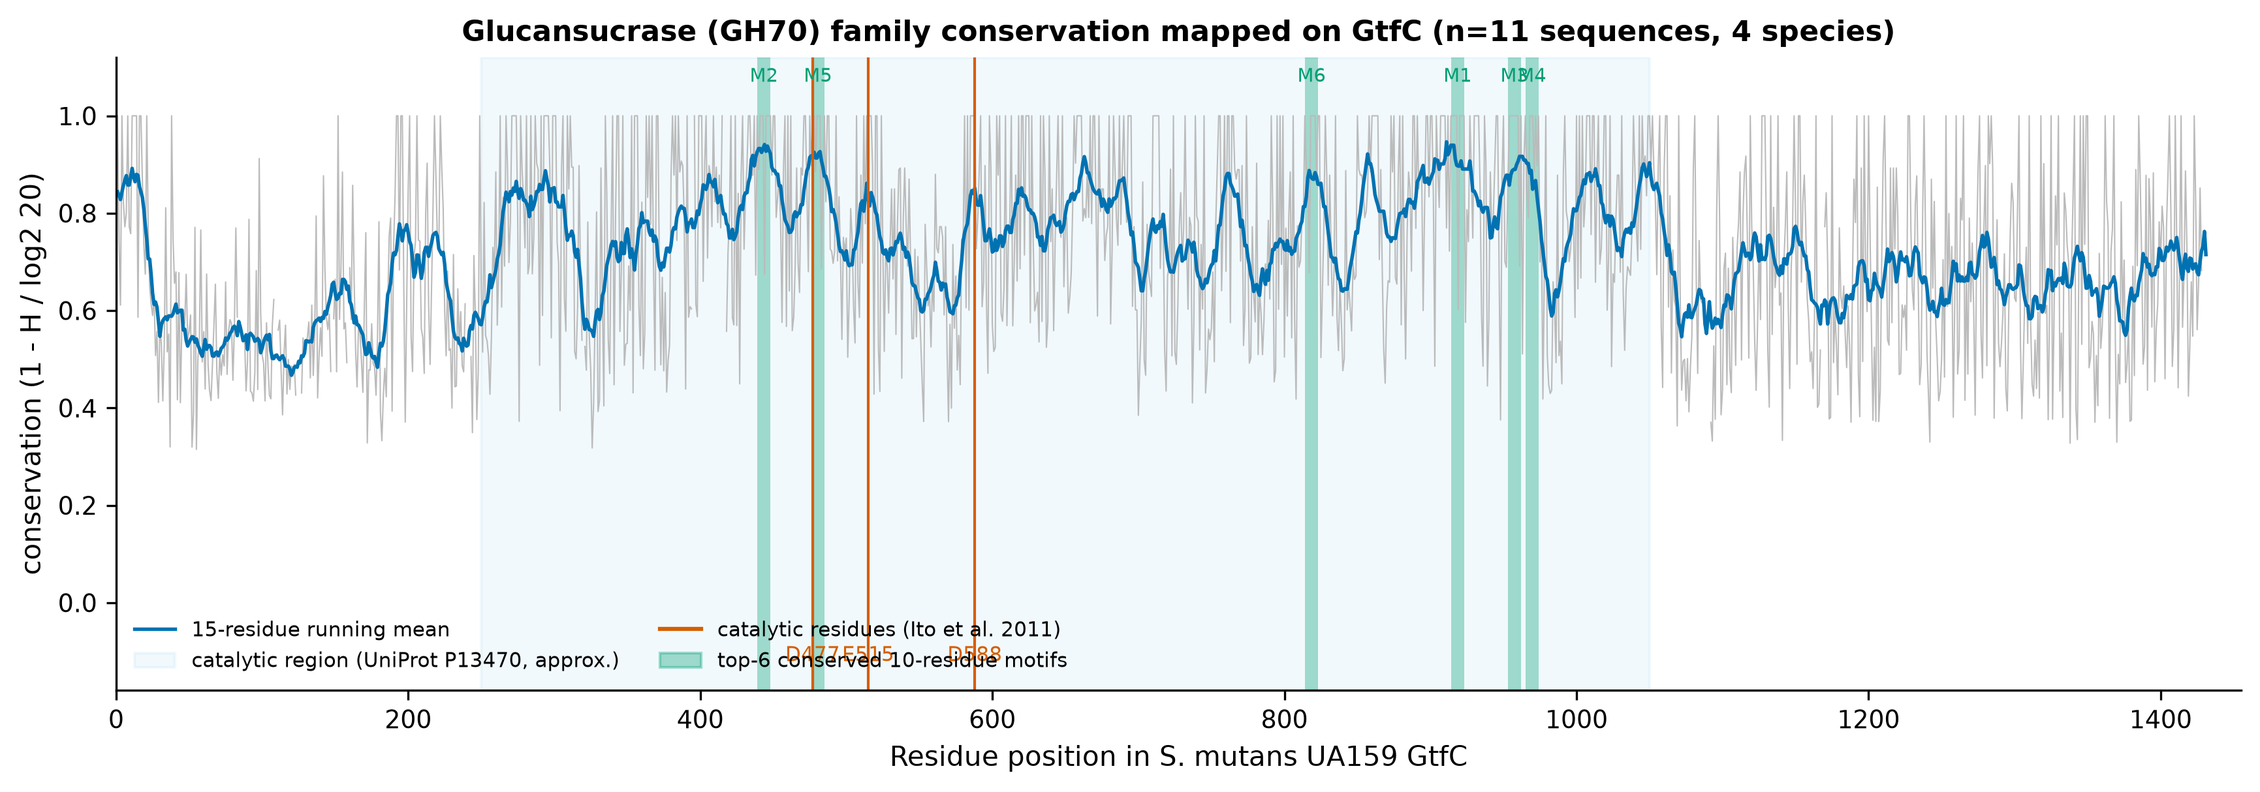
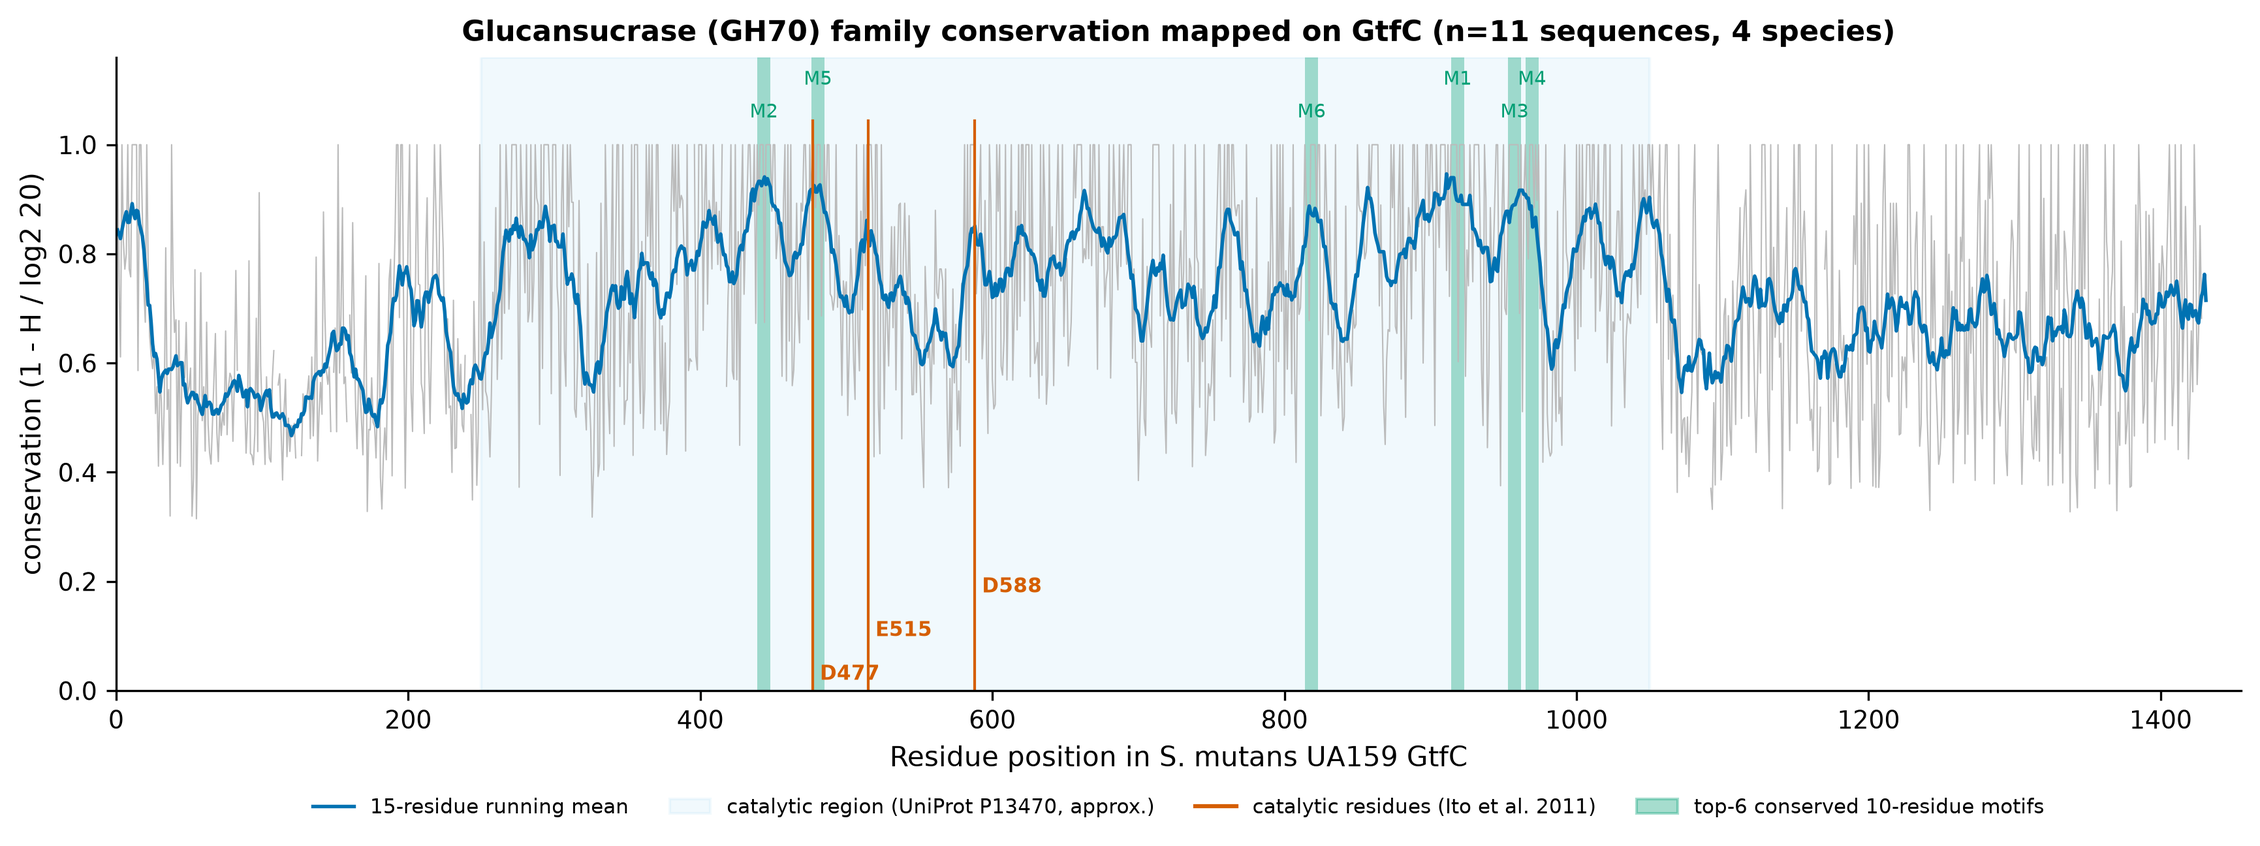
Add visual pass: synthesis forest plot, per-species replication and figure captions

diff --git a/src/cariogenome/captions.py b/src/cariogenome/captions.py
@@ -1,0 +1,47 @@
+"""One-sentence captions for every figure (used by figures/CAPTIONS.md and the dashboard)."""
+from __future__ import annotations
+
+from .config import FIGURES
+
+CAPTIONS: dict[str, str] = {
+    "summary_effect_sizes": "Forest plot of every virulence-vs-housekeeping comparison in S. mutans (Cliff's delta with 95% bootstrap CI; red = BH q < 0.05), showing that only conservation and dN/dS differ between the gene classes.",
+    "m1_presence_absence": "Reciprocal-best-hit orthologs of the 15-locus panel across 22 genomes, showing that gtfB and gtfC have one-to-one orthologs only in S. mutans while luxS and all housekeeping genes are found in every species.",
+    "m1_length_qc": "Length of every extracted record relative to its UA159 query, colored by species, with QC-excluded records marked by a cross and the number of retained sequences per gene.",
+    "m2_composition_comparison": "GC content, GC3, codon adaptation index and GC skew of 6 virulence-associated vs 8 housekeeping genes in S. mutans (gene means over strains), with Cliff's delta, its 95% CI and BH q-value.",
+    "m2_genome_background": "GC3 and CAI of every CDS in each species representative (grey) with the panel genes overlaid, placing virulence and housekeeping genes within their genome's codon-usage distribution.",
+    "m2_codon_usage_rscu": "Relative synonymous codon usage per gene in S. mutans (log2 scale) alongside the ribosomal-protein reference set used for CAI.",
+    "m2_aa_composition": "Amino-acid composition of each S. mutans panel protein (z-scored per amino acid), with asterisks marking amino acids that differ between gene classes after BH correction.",
+    "m2_species_composition": "Mean GC3 and CAI of every panel gene in each species, with absent orthologs labelled.",
+    "m3_identity_heatmaps": "Pairwise percent identity (from global pairwise alignments) for every gene, with rows ordered by species and the number of sequences in each panel title.",
+    "m3_conservation_profiles": "Henikoff-weighted Shannon-entropy conservation along each virulence protein and two housekeeping controls, with the three most and least conserved windows shaded.",
+    "m3_alignment_luxS": "Residue-level view of the center-star protein alignment of LuxS across 22 strains of five species, colored by amino-acid class.",
+    "m3_alignment_overview_gtfD": "Overview of the GtfD alignment showing, for every sequence and column, whether the residue matches S. mutans UA159, differs, or is a gap.",
+    "m3_conservation_summary": "Mean pairwise amino-acid identity and mean per-site entropy within S. mutans for virulence vs housekeeping genes, showing lower conservation of the virulence-associated proteins.",
+    "m4_reference_tree": "Neighbor-joining and UPGMA trees of the concatenated housekeeping genes (the reference species tree) with bootstrap support from 100 replicates; values below 70% are unsupported.",
+    "m4_gene_trees_virulence": "Neighbor-joining gene trees of the six virulence-associated genes with bootstrap support (100 replicates; grey italic = unsupported).",
+    "m4_gene_trees_controls": "Neighbor-joining gene trees of the eight housekeeping genes and 16S rRNA with bootstrap support (100 replicates; grey italic = unsupported).",
+    "m4_discordance": "Normalised Robinson-Foulds distance of each gene tree to the reference tree and the number of well-supported conflicting splits, split into within-species and species-mixing conflicts.",
+    "m4_tanglegrams": "Tanglegrams of the most discordant multi-species virulence gene and control gene against the reference tree, where crossing lines indicate taxa placed differently.",
+    "m5_dnds_comparison": "Pooled NG86 dN/dS within S. mutans for each gene with 95% codon-bootstrap CIs, and the virulence-vs-control comparison, showing purifying selection in all genes but weaker constraint on virulence genes.",
+    "m5_dnds_by_species": "Within-species dN/dS for every gene in every species with at least three strains, showing that virulence-gene homologs in commensal species also have elevated omega.",
+    "m5_sliding_window": "Sliding-window (60 codons) nonsynonymous and synonymous diversity and omega within S. mutans, with no window showing omega significantly above 1.",
+    "m5_synonymous_saturation": "Synonymous p-distance between S. mutans and each commensal species per gene, showing saturation that makes between-species dN/dS unreliable.",
+    "m6_gtf_family_conservation": "Conservation of the 11-member glucansucrase (GH70) family mapped onto GtfC numbering, with the six most conserved motifs and the three catalytic residues marked.",
+    "m6_motif_logos": "Information-content sequence logos of the six most conserved GH70 motifs and of the catalytic regions II, III and IV centered on D477, E515 and D588.",
+    "m7_structure_conservation_map": "GtfC (PDB 3AIE chain A) C-alpha atoms projected to 2D and colored by GH70 conservation, and conservation vs distance to the catalytic center (Spearman rho with 95% CI).",
+    "m7_ramachandran": "Ramachandran plot of GtfC (PDB 3AIE chain A) for general, glycine and proline residues.",
+    "m7_structure_conservation": "Interactive py3Dmol view of GtfC (PDB 3AIE chain A) colored by GH70 conservation with catalytic residues shown as sticks (open the HTML file in a browser).",
+    "validation_synthetic_recovery": "SYNTHETIC validation: omega estimated by the pipeline vs the true omega used to simulate codon evolution, plus the Robinson-Foulds distance between the recovered and true trees.",
+}
+
+
+def write_captions() -> None:
+    """Write figures/CAPTIONS.md listing every figure that exists, in pipeline order."""
+    lines = ["# Figure captions", "", "All PNG figures are 300 dpi. Colors use the Okabe-Ito "
+             "colorblind-safe palette (red/orange = virulence-associated genes, blue = "
+             "housekeeping controls).", ""]
+    for name, cap in CAPTIONS.items():
+        ext = "html" if name == "m7_structure_conservation" else "png"
+        if (FIGURES / f"{name}.{ext}").exists():
+            lines.append(f"- **{name}.{ext}**: {cap}")
+    (FIGURES / "CAPTIONS.md").write_text("\n".join(lines) + "\n", encoding="utf-8")

diff --git a/src/cariogenome/summary.py b/src/cariogenome/summary.py
@@ -1,0 +1,69 @@
+"""Cross-module synthesis: one table and one forest plot of every virulence-vs-control test."""
+from __future__ import annotations
+
+import numpy as np
+import pandas as pd
+import matplotlib.pyplot as plt
+
+from .config import RESULTS
+from .plotting import CLASS_COLORS, OKABE_ITO, save
+from .seqio import mode_tag
+
+TESTS = [
+    ("M2 composition", "m2_tests.csv", {"gc": "GC content", "gc3": "GC3", "cai": "CAI",
+                                        "gc_skew": "GC skew"}),
+    ("M3 conservation", "m3_tests.csv", {"mean_pid_Smutans": "mean aa identity",
+                                         "mean_entropy_Smutans": "mean per-site entropy"}),
+    ("M4 phylogeny", "m4_tests.csv", {"nRF_within_Smutans": "RF distance to reference",
+                                      "n_supported_conflicts": "supported conflicting splits"}),
+    ("M5 selection", "m5_tests.csv", {"omega": "dN/dS (omega)", "dN": "dN", "dS": "dS"}),
+]
+
+
+def effect_table() -> pd.DataFrame:
+    """All class comparisons in one table (Cliff's delta > 0 = higher in virulence genes)."""
+    rows = []
+    for module, fname, labels in TESTS:
+        t = pd.read_csv(RESULTS / fname).set_index("metric")
+        for key, label in labels.items():
+            r = t.loc[key]
+            rows.append({"module": module, "metric": key, "label": label,
+                         "n_virulence": int(r.n_virulence), "n_control": int(r.n_control),
+                         "median_virulence": r.median_virulence, "median_control": r.median_control,
+                         "cliffs_delta": r.cliffs_delta, "ci_low": r.delta_ci_low,
+                         "ci_high": r.delta_ci_high, "p": r.p_mannwhitney, "q_bh": r.q_bh})
+    out = pd.DataFrame(rows)
+    out.to_csv(RESULTS / "summary_effect_sizes.csv", index=False)
+    return out
+
+
+def plot_forest(tab: pd.DataFrame) -> None:
+    fig, ax = plt.subplots(figsize=(10, 6.5))
+    y = np.arange(len(tab))[::-1]
+    for yi, r in zip(y, tab.itertuples()):
+        sig = r.q_bh < 0.05
+        col = OKABE_ITO["vermillion"] if sig else "#777777"
+        ax.plot([r.ci_low, r.ci_high], [yi, yi], color=col, lw=2)
+        ax.scatter(r.cliffs_delta, yi, color=col, s=45, zorder=3, marker="D" if sig else "o")
+        ax.text(1.08, yi, f"q = {r.q_bh:.3f}" if np.isfinite(r.q_bh) else "q = n/a", va="center",
+                fontsize=8.5, color=col)
+    ax.axvline(0, color="black", lw=0.8)
+    ax.set_yticks(y, [f"{r.module}: {r.label}" for r in tab.itertuples()], fontsize=9)
+    ax.set_xlim(-1.05, 1.05)
+    ax.set_xlabel("Cliff's delta (virulence vs housekeeping genes), 95% bootstrap CI")
+    ax.text(-1.0, len(tab) - 0.2, "lower in virulence genes", fontsize=8, color=CLASS_COLORS["control"])
+    ax.text(1.0, len(tab) - 0.2, "higher in virulence genes", fontsize=8, ha="right",
+            color=CLASS_COLORS["virulence"])
+    ax.set_ylim(-0.7, len(tab) + 0.2)
+    n = f"{int(tab['n_virulence'].iloc[0])} virulence vs {int(tab['n_control'].iloc[0])} control genes"
+    ax.set_title(f"All virulence-vs-control comparisons in S. mutans ({n})\n"
+                 "red diamond = BH q < 0.05 within its module; grey = not significant" + mode_tag(),
+                 fontsize=10.5)
+    save(fig, "summary_effect_sizes")
+
+
+def run() -> pd.DataFrame:
+    tab = effect_table()
+    plot_forest(tab)
+    print(tab[["module", "label", "cliffs_delta", "ci_low", "ci_high", "q_bh"]].round(3).to_string(index=False))
+    return tab

diff --git a/src/cariogenome/m6_figures.py b/src/cariogenome/m6_figures.py
@@ -47,29 +47,31 @@ def draw_logo(ax, freq: pd.DataFrame, title: str, highlight: int | None = None) 
     ax.set_title(title, fontsize=9)
 
 
-def plot_map(cons: pd.DataFrame, ranks: pd.DataFrame, motifs: pd.DataFrame, n: int) -> None:
+def plot_map(cons: pd.DataFrame, ranks: pd.DataFrame, motifs: pd.DataFrame, n: int,
+             n_species: int) -> None:
     c = cons.dropna(subset=["ref_position"])
     fig, ax = plt.subplots(figsize=(14, 4.2))
     ax.plot(c["ref_position"], c["conservation"], color="#BBBBBB", lw=0.5)
     sm = c.set_index("ref_position")["conservation"].rolling(15, center=True, min_periods=5).mean()
     ax.plot(sm.index, sm.values, color=OKABE_ITO["blue"], lw=1.3, label="15-residue running mean")
     ax.axvspan(250, 1050, color=OKABE_ITO["sky"], alpha=0.08, label="catalytic region (UniProt P13470, approx.)")
-    for m in motifs.itertuples():
+    for k, m in enumerate(motifs.sort_values("start").itertuples()):
         ax.axvspan(m.start, m.end, color=OKABE_ITO["green"], alpha=0.35, lw=0)
-        ax.text((m.start + m.end) / 2, 1.07, m.motif, ha="center", fontsize=7, color=OKABE_ITO["green"])
-    for r in ranks.itertuples():
-        ax.axvline(r.position, color=OKABE_ITO["vermillion"], lw=1)
-        ax.text(r.position, -0.12, f"{r.residue}{r.position}", ha="center", fontsize=7.5,
-                color=OKABE_ITO["vermillion"], rotation=0)
-    ax.set_ylim(-0.18, 1.12)
+        ax.text((m.start + m.end) / 2, 1.05 + 0.06 * (k % 2), m.motif, ha="center", fontsize=7,
+                color=OKABE_ITO["green"])
+    for k, r in enumerate(ranks.itertuples()):
+        ax.axvline(r.position, color=OKABE_ITO["vermillion"], lw=1, ymax=0.9)
+        ax.text(r.position, 0.02 + 0.08 * k, f" {r.residue}{r.position}", ha="left", fontsize=7.5,
+                color=OKABE_ITO["vermillion"], fontweight="bold")
+    ax.set_ylim(0, 1.16)
     ax.set_xlim(0, c["ref_position"].max())
     ax.set_xlabel("Residue position in S. mutans UA159 GtfC")
     ax.set_ylabel("conservation (1 - H / log2 20)")
     ax.plot([], [], color=OKABE_ITO["vermillion"], label="catalytic residues (Ito et al. 2011)")
     ax.fill_between([], [], color=OKABE_ITO["green"], alpha=0.35, label="top-6 conserved 10-residue motifs")
-    ax.legend(loc="lower left", fontsize=7.5, ncol=2)
-    ax.set_title(f"Glucansucrase (GH70) family conservation mapped on GtfC (n={n} sequences, 4 "
-                 "species)" + mode_tag(), fontsize=10.5)
+    ax.legend(loc="upper center", bbox_to_anchor=(0.5, -0.14), fontsize=7.5, ncol=4)
+    ax.set_title(f"Glucansucrase (GH70) family conservation mapped on GtfC (n={n} sequences, "
+                 f"{n_species} species)" + mode_tag(), fontsize=10.5)
     save(fig, "m6_gtf_family_conservation")
 
 
@@ -93,7 +95,7 @@ def plot_logos(pwms: dict[str, pd.DataFrame], n: int) -> None:
     save(fig, "m6_motif_logos")
 
 
-def plot_all(cons, ranks, motifs, pwms, n) -> None:
+def plot_all(cons, ranks, motifs, pwms, n, n_species) -> None:
     """Draw every M6 figure."""
-    plot_map(cons, ranks, motifs, n)
+    plot_map(cons, ranks, motifs, n, n_species)
     plot_logos(pwms, n)

diff --git a/src/cariogenome/m5_selection.py b/src/cariogenome/m5_selection.py
@@ -18,7 +18,7 @@ import pandas as pd
 from .config import RESULTS, coding_genes, gene_class, housekeeping_genes, load_config, rng, virulence_genes
 from .dnds import PooledNG86, bootstrap_totals, omega_from_totals
 from .seqio import read_fasta, species_map
-from .stats import benjamini_hochberg, compare_table
+from .stats import benjamini_hochberg, compare_groups, compare_table
 
 ALN_DIR = RESULTS / "alignments"
 FOCAL = "S. mutans"
@@ -130,6 +130,19 @@ def sliding_windows(models: dict, n_boot: int = 200) -> pd.DataFrame:
     return pd.DataFrame(rows)
 
 
+def replication(within: pd.DataFrame, n_boot: int) -> pd.DataFrame:
+    """Virulence-homolog vs control omega within each species (does the pattern replicate?)."""
+    rows = []
+    for i, (species, sub) in enumerate(within.groupby("species", sort=False)):
+        sub = sub.dropna(subset=["omega"])
+        vir, ctl = sub[sub["class"] == "virulence"], sub[sub["class"] == "control"]
+        if len(vir) < 2 or len(ctl) < 2:
+            continue
+        res = compare_groups(vir["omega"].values, ctl["omega"].values, rng(950 + i), n_boot)
+        rows.append({"species": species, "virulence_genes_present": ";".join(vir["gene"]), **res})
+    return pd.DataFrame(rows)
+
+
 def run() -> dict[str, pd.DataFrame]:
     """Run all selection analyses, tests and figures."""
     from . import m5_figures
@@ -144,6 +157,8 @@ def run() -> dict[str, pd.DataFrame]:
     smu.to_csv(RESULTS / "m5_dnds_Smutans.csv", index=False)
     tests = compare_table(smu, ["omega", "dN", "dS"], rng(7), n_boot=cfg["bootstrap"]["stats_replicates"])
     tests.to_csv(RESULTS / "m5_tests.csv", index=False)
+    rep = replication(within, cfg["bootstrap"]["stats_replicates"])
+    rep.to_csv(RESULTS / "m5_replication_by_species.csv", index=False)
     per_gene = gene_vs_controls(models, n_boot)
     per_gene.to_csv(RESULTS / "m5_gene_vs_controls.csv", index=False)
     windows = sliding_windows(models)
@@ -153,5 +168,7 @@ def run() -> dict[str, pd.DataFrame]:
     print(tests[["metric", "median_virulence", "median_control", "cliffs_delta", "delta_ci_low",
                  "delta_ci_high", "q_bh"]].round(4).to_string(index=False))
     print(per_gene.round(4).to_string(index=False))
+    print(rep[["species", "virulence_genes_present", "median_virulence", "median_control",
+               "cliffs_delta", "delta_ci_low", "delta_ci_high", "p_mannwhitney"]].round(3).to_string(index=False))
     print("between-species saturated:", int(between["saturated"].sum()), "of", len(between))
     return {"smutans": smu, "tests": tests, "per_gene": per_gene, "between": between}

diff --git a/src/cariogenome/m6_motifs.py b/src/cariogenome/m6_motifs.py
@@ -152,7 +152,8 @@ def run() -> dict[str, pd.DataFrame]:
                "fraction_invariant_columns": ranks.attrs["frac_invariant"],
                "p_all_three_invariant_by_chance": ranks.attrs["frac_invariant"] ** 3}
     pd.DataFrame([summary]).to_csv(RESULTS / "m6_summary.csv", index=False)
-    m6_figures.plot_all(cons, ranks, motifs, pwms, len(msa))
+    n_species = len({k.split("_")[0] for k in msa})
+    m6_figures.plot_all(cons, ranks, motifs, pwms, len(msa), n_species)
     print(check.to_string(index=False))
     print(ranks.round(3).to_string(index=False))
     print(motifs[["motif", "start", "end", "mean_conservation", "GtfC_sequence", "catalytic_residues_inside"]].to_string(index=False))

diff --git a/figures/CAPTIONS.md b/figures/CAPTIONS.md
@@ -1,0 +1,32 @@
+# Figure captions
+
+All PNG figures are 300 dpi. Colors use the Okabe-Ito colorblind-safe palette (red/orange = virulence-associated genes, blue = housekeeping controls).
+
+- **summary_effect_sizes.png**: Forest plot of every virulence-vs-housekeeping comparison in S. mutans (Cliff's delta with 95% bootstrap CI; red = BH q < 0.05), showing that only conservation and dN/dS differ between the gene classes.
+- **m1_presence_absence.png**: Reciprocal-best-hit orthologs of the 15-locus panel across 22 genomes, showing that gtfB and gtfC have one-to-one orthologs only in S. mutans while luxS and all housekeeping genes are found in every species.
+- **m1_length_qc.png**: Length of every extracted record relative to its UA159 query, colored by species, with QC-excluded records marked by a cross and the number of retained sequences per gene.
+- **m2_composition_comparison.png**: GC content, GC3, codon adaptation index and GC skew of 6 virulence-associated vs 8 housekeeping genes in S. mutans (gene means over strains), with Cliff's delta, its 95% CI and BH q-value.
+- **m2_genome_background.png**: GC3 and CAI of every CDS in each species representative (grey) with the panel genes overlaid, placing virulence and housekeeping genes within their genome's codon-usage distribution.
+- **m2_codon_usage_rscu.png**: Relative synonymous codon usage per gene in S. mutans (log2 scale) alongside the ribosomal-protein reference set used for CAI.
+- **m2_aa_composition.png**: Amino-acid composition of each S. mutans panel protein (z-scored per amino acid), with asterisks marking amino acids that differ between gene classes after BH correction.
+- **m2_species_composition.png**: Mean GC3 and CAI of every panel gene in each species, with absent orthologs labelled.
+- **m3_identity_heatmaps.png**: Pairwise percent identity (from global pairwise alignments) for every gene, with rows ordered by species and the number of sequences in each panel title.
+- **m3_conservation_profiles.png**: Henikoff-weighted Shannon-entropy conservation along each virulence protein and two housekeeping controls, with the three most and least conserved windows shaded.
+- **m3_alignment_luxS.png**: Residue-level view of the center-star protein alignment of LuxS across 22 strains of five species, colored by amino-acid class.
+- **m3_alignment_overview_gtfD.png**: Overview of the GtfD alignment showing, for every sequence and column, whether the residue matches S. mutans UA159, differs, or is a gap.
+- **m3_conservation_summary.png**: Mean pairwise amino-acid identity and mean per-site entropy within S. mutans for virulence vs housekeeping genes, showing lower conservation of the virulence-associated proteins.
+- **m4_reference_tree.png**: Neighbor-joining and UPGMA trees of the concatenated housekeeping genes (the reference species tree) with bootstrap support from 100 replicates; values below 70% are unsupported.
+- **m4_gene_trees_virulence.png**: Neighbor-joining gene trees of the six virulence-associated genes with bootstrap support (100 replicates; grey italic = unsupported).
+- **m4_gene_trees_controls.png**: Neighbor-joining gene trees of the eight housekeeping genes and 16S rRNA with bootstrap support (100 replicates; grey italic = unsupported).
+- **m4_discordance.png**: Normalised Robinson-Foulds distance of each gene tree to the reference tree and the number of well-supported conflicting splits, split into within-species and species-mixing conflicts.
+- **m4_tanglegrams.png**: Tanglegrams of the most discordant multi-species virulence gene and control gene against the reference tree, where crossing lines indicate taxa placed differently.
+- **m5_dnds_comparison.png**: Pooled NG86 dN/dS within S. mutans for each gene with 95% codon-bootstrap CIs, and the virulence-vs-control comparison, showing purifying selection in all genes but weaker constraint on virulence genes.
+- **m5_dnds_by_species.png**: Within-species dN/dS for every gene in every species with at least three strains, showing that virulence-gene homologs in commensal species also have elevated omega.
+- **m5_sliding_window.png**: Sliding-window (60 codons) nonsynonymous and synonymous diversity and omega within S. mutans, with no window showing omega significantly above 1.
+- **m5_synonymous_saturation.png**: Synonymous p-distance between S. mutans and each commensal species per gene, showing saturation that makes between-species dN/dS unreliable.
+- **m6_gtf_family_conservation.png**: Conservation of the 11-member glucansucrase (GH70) family mapped onto GtfC numbering, with the six most conserved motifs and the three catalytic residues marked.
+- **m6_motif_logos.png**: Information-content sequence logos of the six most conserved GH70 motifs and of the catalytic regions II, III and IV centered on D477, E515 and D588.
+- **m7_structure_conservation_map.png**: GtfC (PDB 3AIE chain A) C-alpha atoms projected to 2D and colored by GH70 conservation, and conservation vs distance to the catalytic center (Spearman rho with 95% CI).
+- **m7_ramachandran.png**: Ramachandran plot of GtfC (PDB 3AIE chain A) for general, glycine and proline residues.
+- **m7_structure_conservation.html**: Interactive py3Dmol view of GtfC (PDB 3AIE chain A) colored by GH70 conservation with catalytic residues shown as sticks (open the HTML file in a browser).
+- **validation_synthetic_recovery.png**: SYNTHETIC validation: omega estimated by the pipeline vs the true omega used to simulate codon evolution, plus the Robinson-Foulds distance between the recovered and true trees.

diff --git a/PROGRESS.md b/PROGRESS.md
@@ -1,6 +1,10 @@
 # PROGRESS
 
 ## Done
+- Phase 7: visual pass; synthesis forest plot (`summary.py`,
+  `figures/summary_effect_sizes.png`), per-species replication of the dN/dS pattern
+  (`results/m5_replication_by_species.csv`), label fixes, `figures/CAPTIONS.md`
+  (generated by `captions.py`).
 - Phase 6 (M6 + M7): GH70 family motifs, PWMs and logos, catalytic-residue ranks
   (`results/m6_*.csv`); PDB 3AIE conservation mapping, P6 correlation, Ramachandran,
   interactive `figures/m7_structure_conservation.html` (`results/m7_*.csv`). Runtime ~8 s.
@@ -28,7 +32,7 @@
   (`src/cariogenome/plotting.py`).
 
 ## In progress
-- Phase 7 (visual pass + captions), then Phase 8 (Streamlit app).
+- Phase 8 (Streamlit app).
 
 ## Next
 - Phases 2-10 as listed in the project brief.
